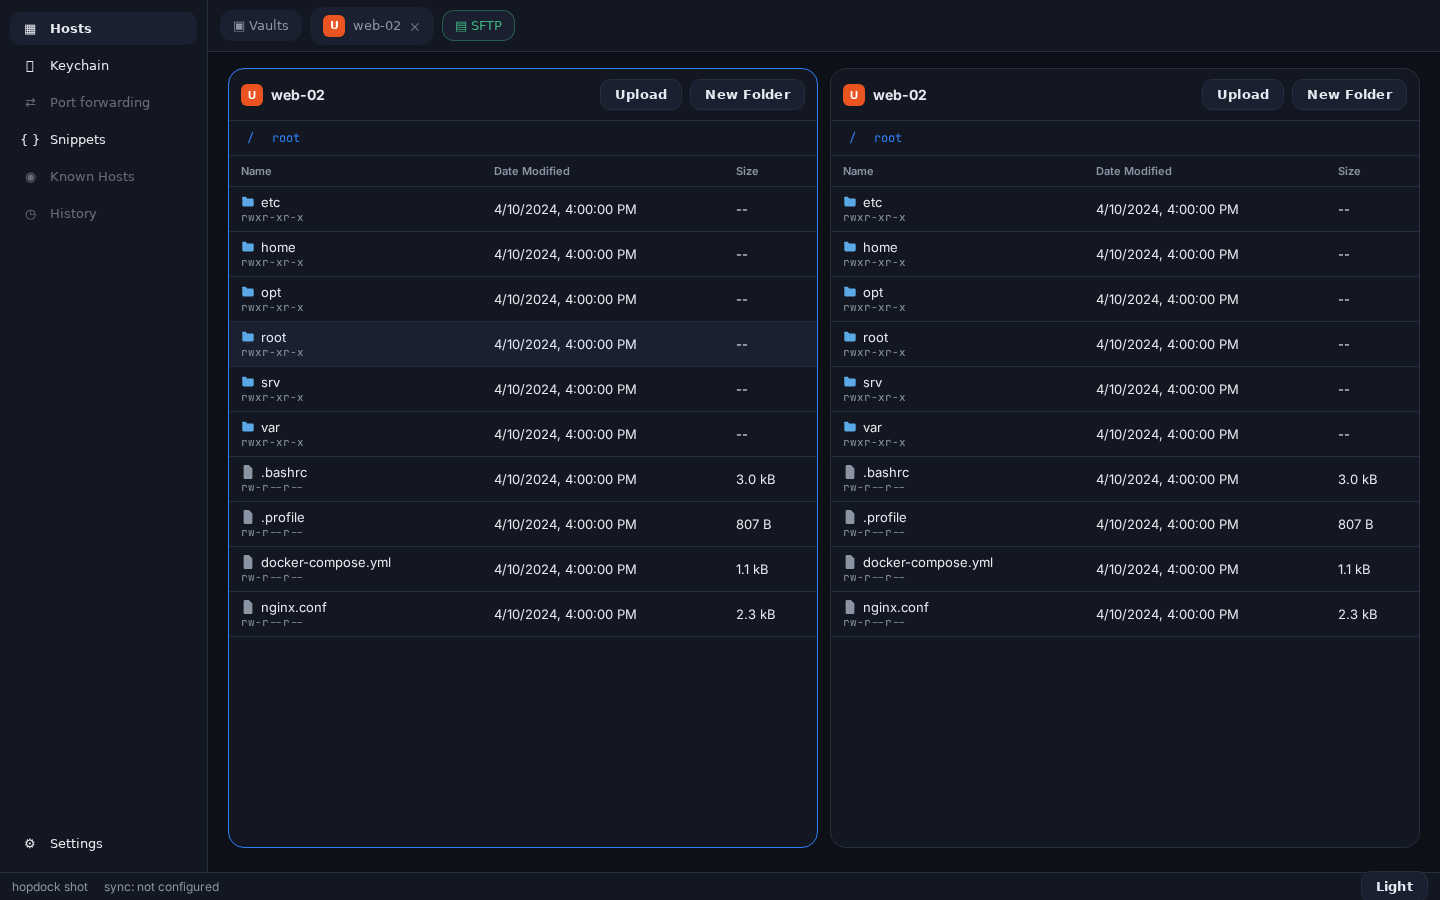
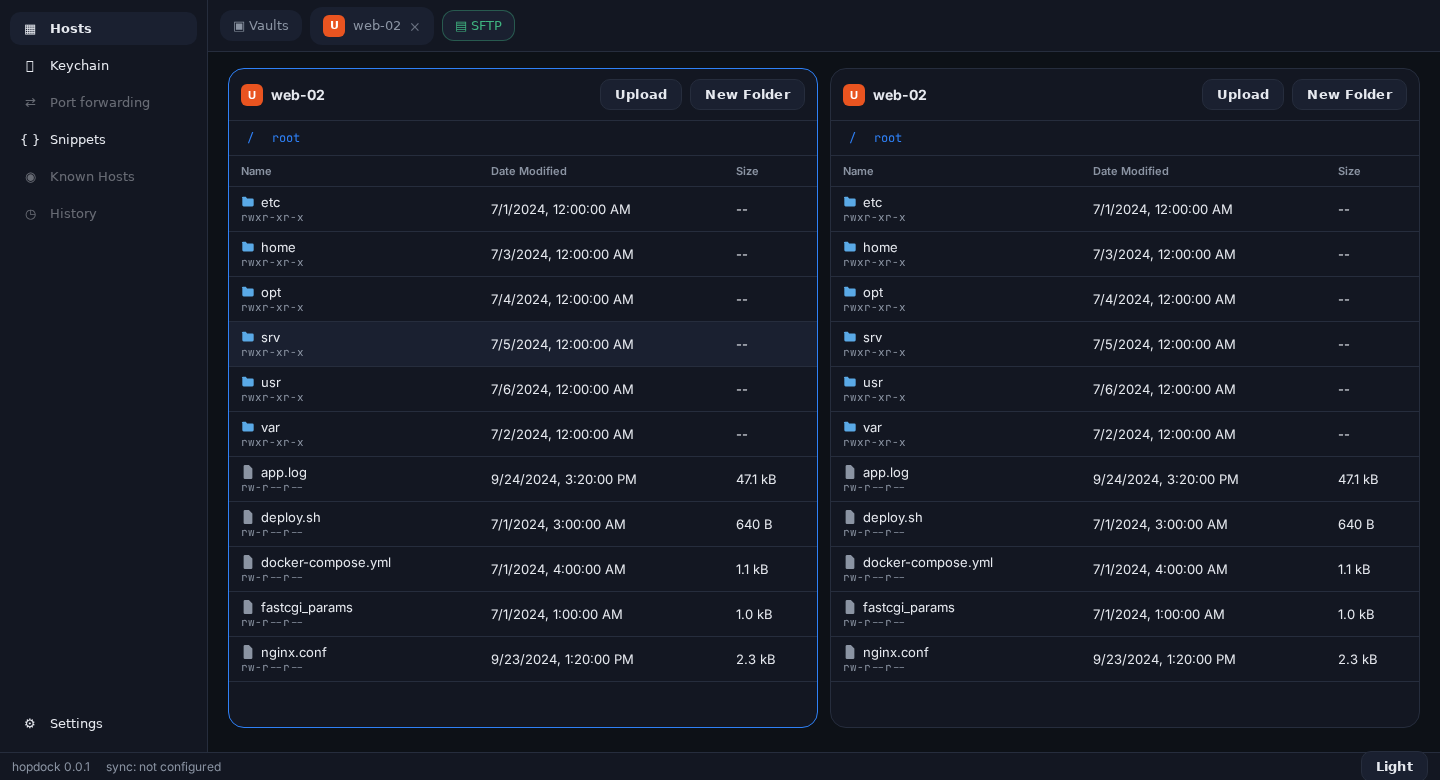
Juicy screenshots: full mocks, tight crops, bundled webfonts, no dead buttons

diff --git a/packages/ui/src/HostsView.tsx b/packages/ui/src/HostsView.tsx
@@ -59,9 +59,6 @@ export function HostsView({ groups, hosts, onOpenTerminal, onOpenSftp, onNew, on
         <button className="hd-btn primary" type="button" onClick={onNew}>
           NEW HOST ▾
         </button>
-        <button className="hd-btn" type="button" disabled title="Local terminal after v0.0.1">
-          TERMINAL
-        </button>
         <div className="hd-search" style={{ marginLeft: 'auto' }}>
           <span>⌕</span>
           <input value={query} onChange={(e) => setQuery(e.target.value)} placeholder="Search hosts, tags..." />
